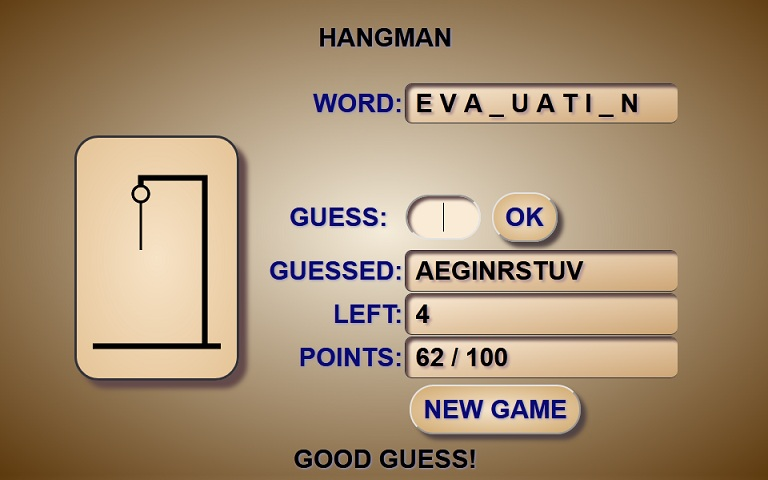
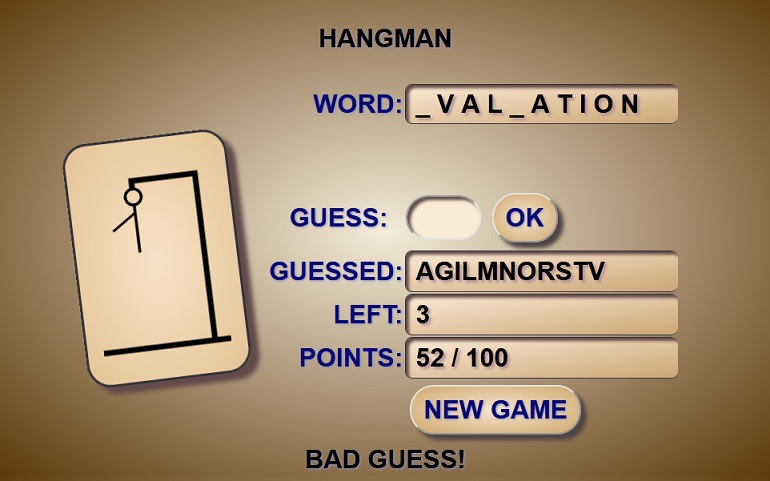
Green color for winning, red color for lose

diff --git a/index.html b/index.html
@@ -20,12 +20,13 @@
             background-image: radial-gradient(rgb(245, 236, 218), rgb(94, 58, 14));
         }
         canvas{
-            background-color: rgb(229, 196, 151);
+            /* background-color: rgb(229, 196, 151); */
             box-shadow: 10px 10px 5px #644b4b;
             border: 3px solid rgb(52, 52, 59);
             border-radius: 30px;
             background-image: radial-gradient(rgb(247, 227, 199), rgb(229, 196, 151));
             margin-left: 35%;
+            rotate: -7deg;
         }
         button{
             background-color:rgb(209, 235, 245);
@@ -98,7 +99,7 @@
             <td>
                 <table border="0" width="85%">
                     <tr>
-                        <td width="30%" align="right" class="label">Word:</td>
+                        <td width="30%" align="right" class="label" id="wordLabel">Word:</td>
                         <td width="50%" id="word" class="textBox">_ _ _ _ _ _ _ _ _ _</td>
                     </tr>
                     <tr>
@@ -190,6 +191,8 @@
                 document.getElementById("nG").click();
             }
         }); */
+        /* ctx.style.backgroundImage = 'radial-gradient(rgb(247, 227, 111), rgb(229, 196, 111))'; */
+        /* background-image: radial-gradient(rgb(247, 227, 199), rgb(229, 196, 151)); */
         
         var userChar = "";
         function testLetter(){
@@ -239,6 +242,10 @@
                     document.getElementById("okButton").style.visibility = "hidden"; 
                     document.getElementById("guess").style.display = "none";
                     document.getElementById("messages").innerHTML = "You Win!";
+
+                    document.getElementById("myCanvas").style.transform = "rotate(7deg)";
+                    ctx.fillStyle = "rgba(0, 255, 0, 0.1)";;
+                    ctx.fillRect(0, 0, 200, 300);
                 }
 
             } else {                
@@ -281,6 +288,7 @@
                 ctx.lineTo(160, 50);
                 ctx.lineTo(80, 50);
                 ctx.lineTo(80, 60);
+                /* ctx.strokeStyle = "#FF0000"; */
                 ctx.stroke();
             }                
             
@@ -337,18 +345,37 @@
                 document.getElementById("answer").style.visibility = "visible";
                 document.getElementById("messages").innerHTML = "Game Over!";
 
-                document.getElementById("myCanvas").style.transform = "rotate(7deg)";
+                document.getElementById("myCanvas").style.transform = "rotate(-7deg)";
+
+                document.getElementById("myCanvas").style.backgroundColor = 'rgba(158, 167, 184, 0.2)';
+
+                
+                /* ctx.style.backgroundColor = "red"; */
+
+                /* grd.addColorStop(0, "red");
+                var grd = ctx.createRadialGradient(75, 50, 5, 90, 60, 100);
+                grd.addColorStop(1, "white");
+                ctx.fillStyle = grd;
+                ctx.fillRect(10, 10, 150, 100);  */
+
+                ctx.fillStyle = "rgba(255, 0, 0, 0.1)";;
+                ctx.fillRect(0, 0, 200, 300);
+
             }                
         }  
 
-        var canvasRotation = -7;
+        var canvasRotation = -14;
         var rotationText = ""
         function solution(){
             rotationText = "rotate(" + canvasRotation + "deg)"
             document.getElementById("myCanvas").style.transform = rotationText;
-            document.getElementById("solution").style.transform = "rotate(-7deg)";
+            /* document.getElementById("wordLabel").style.transform = rotationText;
+            document.getElementById("solution").style.transform = "rotate(-7deg)"; */
             document.getElementById("answer").innerHTML = word;
-            if(canvasRotation < -360){
+            /* if(canvasRotation < -150){
+                document.getElementById("wordLabel").style.transform = rotationText;
+            } */
+            if(canvasRotation < -350){
                 window.location.reload();
             }
 
